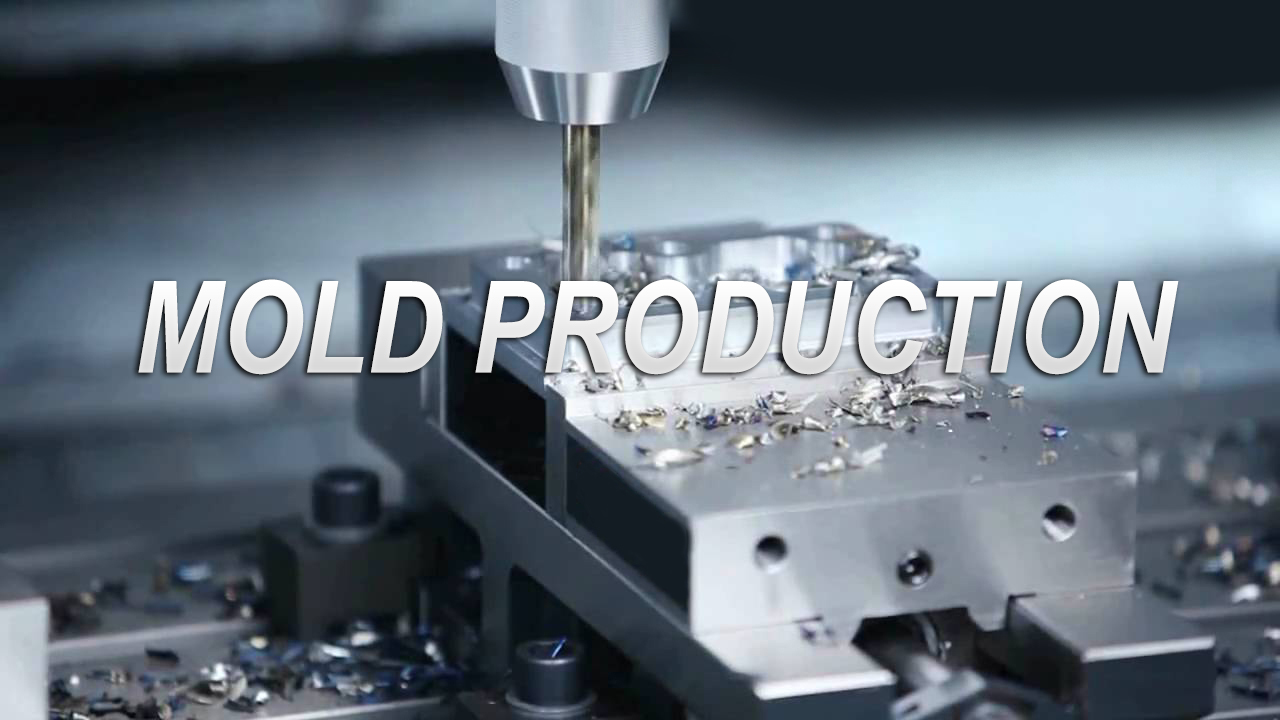
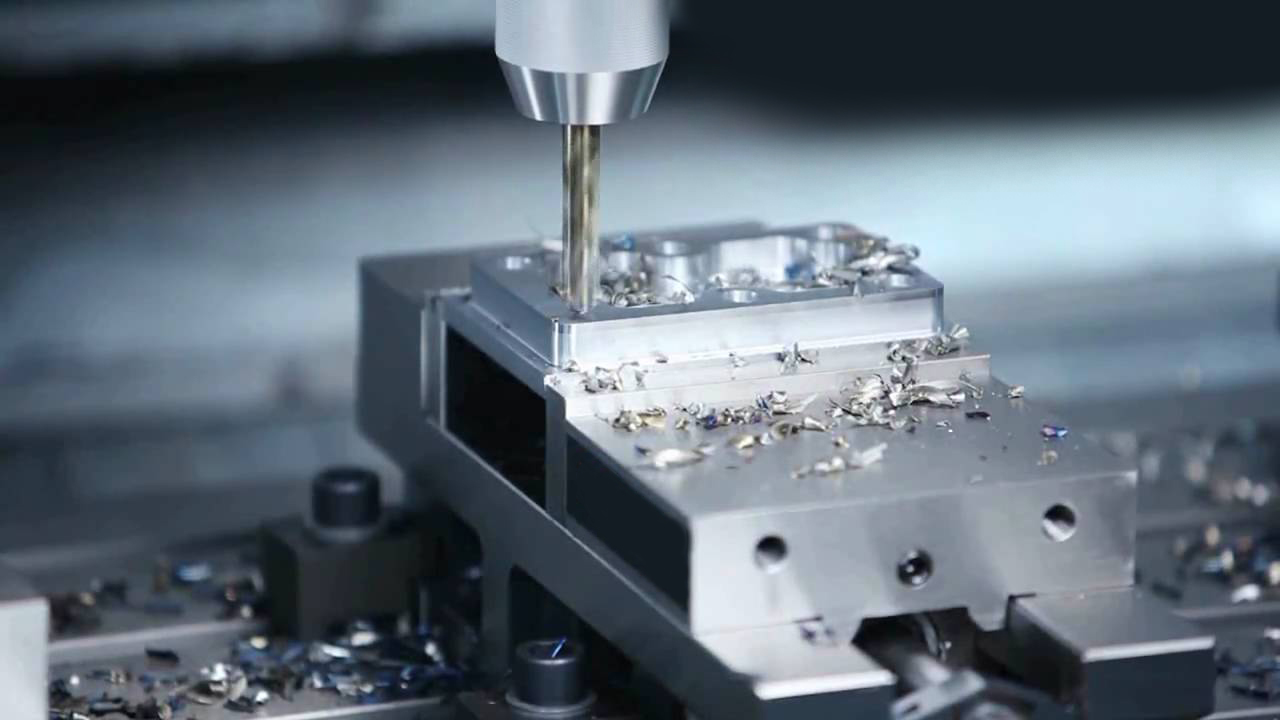
Font Images Size

Changed region(s): [[0.375, 0.3667, 0.9375, 0.55], [0.0938, 0.3667, 0.3438, 0.55]]

diff --git a/service3.html b/service3.html
@@ -10,7 +10,7 @@
 <head>
 	<meta charset="utf-8">
 	<meta http-equiv="X-UA-Compatible" content="IE=edge,chrome=1">
-	<title>Lonoski Service 3</title>
+	<title>Plastic Production</title>
 	<meta name="description" content="">
 	<meta name="viewport" content="width=device-width, initial-scale=1">
 	<link rel="apple-touch-icon" href="apple-touch-icon.png">
@@ -58,7 +58,7 @@
 <div class="container services-container">
 	<div class="row">
 		<div class="col-sm-8">
-			<h1>Service 3</h1>
+			<h1>Plastic Production</h1>
 			<p>Lorem ipsum dolor sit amet, consectetur adipiscing elit. Suspendisse placerat enim quis suscipit
 				ultrices. Donec varius tortor et vehicula dictum. Proin lacinia ligula sed elit sagittis, fermentum
 				pretium dui fringilla. Fusce vitae fermentum sem, quis mattis lacus. Morbi augue velit, suscipit a massa

diff --git a/service1.html b/service1.html
@@ -10,7 +10,7 @@
 <head>
 	<meta charset="utf-8">
 	<meta http-equiv="X-UA-Compatible" content="IE=edge,chrome=1">
-	<title>Lonoski Service 1</title>
+	<title>Mold Production</title>
 	<meta name="description" content="">
 	<meta name="viewport" content="width=device-width, initial-scale=1">
 	<link rel="apple-touch-icon" href="apple-touch-icon.png">
@@ -58,7 +58,7 @@
 <div class="container services-container">
 	<div class="row">
 		<div class="col-sm-8">
-			<h1>Service 1</h1>
+			<h1>Mold Production</h1>
 			<p>Lorem ipsum dolor sit amet, consectetur adipiscing elit. Suspendisse placerat enim quis suscipit
 				ultrices. Donec varius tortor et vehicula dictum. Proin lacinia ligula sed elit sagittis, fermentum
 				pretium dui fringilla. Fusce vitae fermentum sem, quis mattis lacus. Morbi augue velit, suscipit a massa

diff --git a/service2.html b/service2.html
@@ -10,7 +10,7 @@
 <head>
 	<meta charset="utf-8">
 	<meta http-equiv="X-UA-Compatible" content="IE=edge,chrome=1">
-	<title>Lonoski Service 2</title>
+	<title>Automation</title>
 	<meta name="description" content="">
 	<meta name="viewport" content="width=device-width, initial-scale=1">
 	<link rel="apple-touch-icon" href="apple-touch-icon.png">
@@ -58,7 +58,7 @@
 <div class="container services-container">
 	<div class="row">
 		<div class="col-sm-8">
-			<h1>Service 2</h1>
+			<h1>Automation</h1>
 			<p>Lorem ipsum dolor sit amet, consectetur adipiscing elit. Suspendisse placerat enim quis suscipit
 				ultrices. Donec varius tortor et vehicula dictum. Proin lacinia ligula sed elit sagittis, fermentum
 				pretium dui fringilla. Fusce vitae fermentum sem, quis mattis lacus. Morbi augue velit, suscipit a massa

diff --git a/index.html b/index.html
@@ -74,9 +74,9 @@
 <div id="row-images">
 	<div class="hr"></div>
 	<h1 id="services">Services</h1>
-	<a class=" leftImg" href="service1.html"><img src="img/serviceLeft.jpg" class="img3"><p class="imgText"></p><!--
+	<a class=" leftImg" href="service1.html"><img src="img/serviceLeft.jpg" class="img3"><p class="imgText imgTextTwo">MOLD PRODUCTION</p><!--
 	--></a><a class="middleImg" href="service2.html"><img src="img/serviceMiddle.jpg" class="img3"><p class="imgText">AUTOMATION</p><!--
-	--></a><a class="rightImg" href="service3.html"><img src="img/serviceRight.jpg" class="img3"><p class="imgText">PLASTIC PRODUCTION</p><!--
+	--></a><a class="rightImg" href="service3.html"><img src="img/serviceRight.jpg" class="img3"><p class="imgText imgTextTwo">PLASTIC PRODUCTION</p><!--
 	--></a>
 	<hr>
 

diff --git a/css/main.css b/css/main.css
@@ -109,21 +109,22 @@
 	font-style: italic;
 	color: white;
 	transition: all .2s ease-in-out;
-	font-size: 7vh;
+	font-size: 8vh;
 	position: absolute;
 	left: 23%;
-	top: 1%;
+	top: -300%;
 	text-shadow: 2px 2px 4px #000000;
 	z-index: 3;
 	pointer-events: none;
 }
 
-
+.imgTextTwo {
+	top: -500%;
+}
 .hr {
 	border: 0;
 	height: 1px;
-	background: #333;
-	background-image: linear-gradient(to right, #ccc, #333, #ccc);
+	background: #333 linear-gradient(to right, #ccc, #333, #ccc);
 }
 
 footer {
